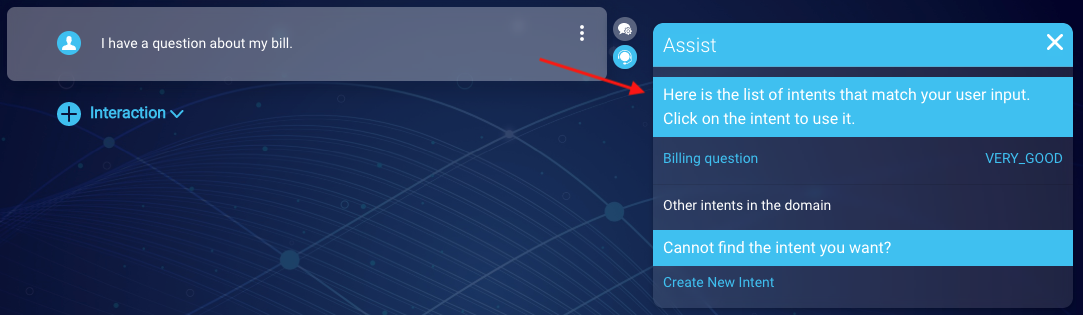
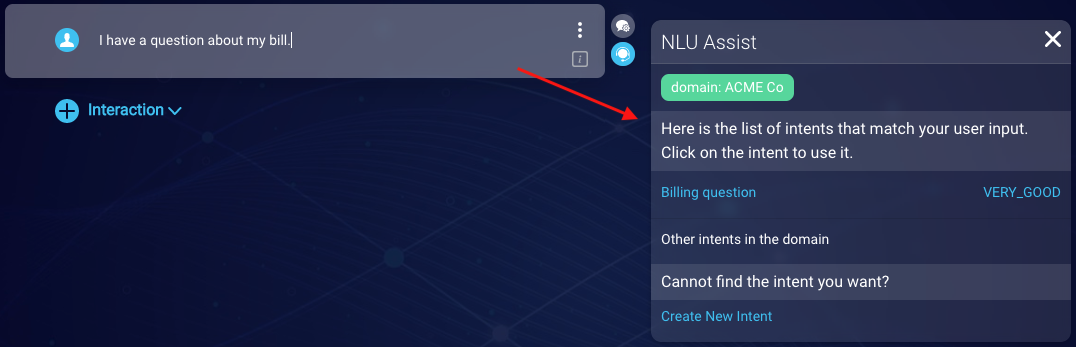
Updates due to Usability marathan & misc edits

diff --git a/pages/documents/ConversationalAI/ConversationBuilder/Assist.md b/pages/documents/ConversationalAI/ConversationBuilder/Assist.md
@@ -1,34 +1,35 @@
 ---
-pagename: Assist
+pagename: NLU Assist
 redirect_from:
     - conversation-builder-conversation-builder-assist.html
+    - conversation-builder-assist.html
 Keywords:
 sitesection: Documents
 categoryname: "Conversational AI"
 documentname: Conversation Builder
 subfoldername: Conversation Builder
-permalink: conversation-builder-assist.html
+permalink: conversation-builder-nlu-assist.html
 indicator: both
 ---
 
-The Assistant tool is a helper tool which "listens" to your dialog as you build it, interaction by interaction, and suggests intents, entities, patterns, and more which can be added to each interaction.
+NLU Assist is a helper tool that "listens" to your dialog as you build it, interaction by interaction, and suggests intents, entities, patterns, and more that can be added to each interaction.
 
 <img alt="test" class="fancyimage" style="width:800px" src="img/ConvoBuilder/assist_suggestion.png">
 
-### Adding a Domain
+### Adding a domain
 
-When you create your first interaction, the Assistant helper tool will automatically pop up on the right hand side of the Conversation Builder. You'll be prompted to add a domain from the list of domains you have set up (to learn more about setting up domains, please see [this link](conversation-builder-intent-builder-overview.html)). If you have not configured a domain yet, you will not be prompted to add one.
+When you create your first interaction, NLU Assist will automatically pop up on the right hand side of an interaction. You'll be prompted to add a domain from the list of domains you have set up (to learn more about setting up domains, please see [this link](conversation-builder-intent-builder-overview.html)). If you have not configured a domain yet, you will not be prompted to add one.
 
-Select one of your domains from the list and click on it. From then on, for this dialog, Assistant will recommend using intents and entities from this domain, identifying areas where they might be relevant using NLU (in essence, it recognizes keywords that you use in an interaction *and* an intent or entity, offering you to link between the two).
+Select one of your domains from the list and click on it. From then on, for this dialog, NLU Assist will recommend using intents and entities from this domain, using NLU to identify areas where they might be relevant. In essence, it recognizes keywords that you use in an interaction *and* an intent or entity, offering you to link between the two.
 
-### Assigning an Intent to An Interaction
+### Assigning an intent to an interaction
 
-When you start typing out a **user interaction**, the Assistant will check the message/question you are creating and run it against your domain's list of existing intents. Using the same NLU engine that will later be used by the automation in real time, it will attempt to suggest relevant intents which you might want to associate with the user's question.
+When you start typing out a *user interaction*, NLU Assist will check the message/question you are creating and run it against your domain's list of existing intents. Using the same NLU engine that will later be used by the bot in real time, it will attempt to suggest relevant intents that you might want to associate with the user's question.
 
-Once you choose an intent, the Assistant will set it for the user's message and the automation will trigger the dialog or the next interaction when the intent is found in a conversation. For example, if your first message is "Hello, I need to check my order status", the Assistant might find a "order_status" intent. Depending on the training questions you associate with the intent (see the link above for more information on how do to that), the automation will trigger not only for that specific sentence but also for something like "Hey! What's my order status?"
+Once you choose an intent, NLU Assist will set it for the user's message, and the bot will trigger the dialog or the next interaction when the intent is found in a conversation. For example, if your first message is "Hello, I need to check my order status", NLU Assist might find an "order_status" intent. Depending on the training questions you associate with the intent (see the link above for more information on how do to that), the bot will trigger not only for that specific sentence but also for something like "Hey! What's my order status?"
 
-### Assigning an Entity and Slots to An Interaction
+### Assigning an entity and slots to an interaction
 
-When you create a **automation interaction**, such as a multiple choice question, the Assistant will listen to the different answers you create for this interaction. It will attempt to find an [entity](conversation-builder-intent-builder-entities.html) which contains these different answers and suggest that you set it for this interaction. If no entity is found, it will prompt you to create one and populate it with the different answers you've configured.
+When you create an *bot interaction*, such as a multiple choice question, NLU Assist will listen to the different answers you create for this interaction. It will attempt to find an [entity](conversation-builder-intent-builder-entities.html) that contains these different answers and suggest that you set it for this interaction. If no entity is found, it will prompt you to create one and populate it with the different answers you've configured.
 
-Once you've chosen an entity, the Assistant will also prompt you to assign or create a [slot](conversation-builder-conversation-builder-variables-slots.html#slots) for this interaction. This will allow you to store the specific answer which the user will choose from out of the members of the assigned entity.
+Once you've chosen an entity, NLU Assist will also prompt you to assign or create a [slot](conversation-builder-conversation-builder-variables-slots.html#slots) for this interaction. This will allow you to store the specific answer that the user will choose from out of the members of the assigned entity.

diff --git a/pages/documents/ConversationalAI/ConversationBuilder/automations.md b/pages/documents/ConversationalAI/ConversationBuilder/automations.md
@@ -14,7 +14,7 @@ indicator: both
 ### Create a bot
 
 {: .important}
-LivePerson recommends that—-before you create a bot—-you set up the [domains](conversation-builder-intent-builder-overview.html), [intents](conversation-builder-intent-builder-overview.html), and [entities](conversation-builder-intent-builder-entities.html) that the bot will need. This makes creation of the bot much faster and easier because the [Assist tool](conversation-builder-assist.html) can use that information along the way to suggest suitable intents and entities to use.
+LivePerson recommends that —before you create a bot— you set up the [domains](conversation-builder-intent-builder-overview.html), [intents](conversation-builder-intent-builder-overview.html), and [entities](conversation-builder-intent-builder-entities.html) that the bot will need. This makes creation of the bot much faster and easier because the [NLU Assist tool](conversation-builder-nlu-assist.html) can use that information along the way to suggest suitable intents and entities to use.
 
 
 **To create a bot**
@@ -76,7 +76,7 @@ Bot settings include:
 
 - **Conversation Builder Platform Version**: Read-only. This identifies the platform version of the bot. Typically, you don’t need this information, but here’s where you can find it if asked for it (for example, in a support scenario).
 
-- **Entity**: You can use this option to associate _a domain_ with the bot. However, the Assist tool provides you with help in associating domains with dialogs, so typically you don’t need to specify a domain here.
+- **Entity**: You can use this option to associate _a domain_ with the bot. However, the [NLU Assist](conversation-builder-nlu-assist.html) tool provides you with help in associating domains with dialogs, so typically you don’t need to specify a domain here.
 
 - **Bot Account**: If you logged into Conversation Builder directly (i.e., _not_ via single sign-on from LiveEngage) and you have access to multiple organizations within your LiveEngage account, you can use this setting to change the organization under which this bot exists. If you logged into Conversation Builder via single sign-on from LiveEngage, the organization you were using in LiveEngage is active and can't be changed, and nothing appears in this list.
 

diff --git a/pages/documents/ConversationalAI/ConversationBuilder/variablesAndSlots.md b/pages/documents/ConversationalAI/ConversationBuilder/variablesAndSlots.md
@@ -43,7 +43,7 @@ Slots are a *special type* of variable. Most of the time, you will use [variable
 
 When combined with [entities](conversation-builder-intent-builder-entities.html), slots bring dynamic, fluid behavior to storing user input data.
 
-For example, if you add a question interaction "what type of shoes are you looking for?", the [Assist](conversation-builder-conversation-builder-assist.html#assigning-an-entity-and-slots-to-an-interaction) tool will suggest appropriate entities and slots for that interaction. As long as the user stays within the bounds of entities that you have created, slots will automatically adjust and update based upon user input throughout the conversation.
+For example, if you add a question interaction "what type of shoes are you looking for?", the [NLU Assist](conversation-builder-nlu-assist.html#assigning-an-entity-and-slots-to-an-interaction) tool will suggest appropriate entities and slots for that interaction. As long as the user stays within the bounds of entities that you have created, slots will automatically adjust and update based upon user input throughout the conversation.
 
 #### Adding a Slot
 
@@ -71,4 +71,4 @@ If your automation asked the user "which animal do you like?" and the user answe
 
 Variables are the default storage unit of Conversation Builder, while slots are a special type of variable. The only reason to favor Slots is if you need extra functionality that is linked to entities or if entities will be used in an API Integration catalog search, for example.
 
-When in doubt, it is best to use variables. The [Assist](conversation-builder-conversation-builder-assist.html) tool will help to display when slots are most useful.
+When in doubt, it is best to use variables. The [NLU Assist](conversation-builder-nlu-assist.html) tool will help to display when slots are most useful.

diff --git a/pages/documents/ConversationalAI/ConversationBuilder/Dialogs/dialogs_fallback.md b/pages/documents/ConversationalAI/ConversationBuilder/Dialogs/dialogs_fallback.md
@@ -15,6 +15,6 @@ By default, whenever a bot doesn't recognize the user's input in a conversation,
 
 ### Why use a Fallback dialog?
 
-Use the Fallback dialog type to _override_ the default behavior with a different fallback response and flow. For example, you might want to send, “I'm sorry. I didn't quite understand you,” or, “I'm not sure what '{$query}' means.” ({$query} plays back to the user what they just said. Once the Fallback dialog flow is completed, the user is returned to their previous dialog and interaction position.
+Use the Fallback dialog type to _override_ the default behavior with a different fallback response and flow. For example, you might want to send, “I'm sorry. I didn't quite understand you,” or, “I'm not sure what '{$userMessage}' means.” ({$userMessage} plays back to the user what they just said. Once the Fallback dialog flow is completed, the user is returned to their previous dialog and interaction position.
 
 Since the Fallback dialog is triggered after failing to match any other dialog starter, it’s also useful for funneling user utterances into a Knowledge Base (or similar integration) search. If an appropriate search result is found, it can be displayed; if no results are found, you might then display a "sorry" message or escalate the conversation to a human agent.

diff --git a/pages/documents/ConversationalAI/IntentBuilder/entities.md b/pages/documents/ConversationalAI/IntentBuilder/entities.md
@@ -22,7 +22,7 @@ Entities are usually one or two words as they represent groups of simple objects
 
 ### Built In entities
 
-The platform automatically detects the entities listed below. Using the [Assist](conversation-builder-conversation-builder-assist.html) tool, you can assign these default entities to User Interactions and have the automation populate a [Slot](conversation-builder-conversation-builder-variables-slots.html#slots) with the user's input to the question to which the entity was assigned.
+The platform automatically detects the entities listed below. Using the [NLU Assist](conversation-builder-nlu-assist.html) tool, you can assign these default entities to User Interactions and have the automation populate a [Slot](conversation-builder-conversation-builder-variables-slots.html#slots) with the user's input to the question to which the entity was assigned.
 
 * PERSON - Names of people, persons.
 

diff --git a/pages/documents/ConversationalAI/ConversationBuilder/common_use_cases.md b/pages/documents/ConversationalAI/ConversationBuilder/common_use_cases.md
@@ -15,9 +15,11 @@ Trying to accomplish a specific goal, but you don't know where to find the infor
 
 To include the consumer's last response in a message, use the following syntax:
 
-`{$query}`
+`{$userMessage}`
 
-For example, in a [Fallback dialog](conversation-builder-dialogs-fallback-dialogs.html), you might send the fallback response, "I'm not sure what '{$query}' means."
+(You can also use `{$query}` in the same way.)
+
+For example, in a [Fallback dialog](conversation-builder-dialogs-fallback-dialogs.html), you might send the fallback response, "I'm not sure what '{$userMessage}' means."
 
 It's common to use this special syntax in the response conditions of questions because often you want to store the consumer's response to a question in a variable. For more on this, see [here](conversation-builder-variables-slots.html).
 

diff --git a/pages/documents/ConversationalAI/ConversationBuilder/Interactions/interactionDetails.md b/pages/documents/ConversationalAI/ConversationBuilder/Interactions/interactionDetails.md
@@ -38,8 +38,7 @@ The Settings panel contains essential data about the selected interaction:
     {: .important}
     If you see messages out of order, add a 1000-2000 millisecond (1-2 second) delay. A 2-second delay is recommended to ensure a consistent message order.
 
-* **Enabled**: On/Off selector for enabling or disabling.
-* **Required**: Available for Question interactions only. On/Off selector for required or not required.
+* **Interaction Enabled**: Set this On/Off slider to Off to disable the interaction, i.e., to exclude it from being executed as a part of the dialog flow. The default value is On (Enabled).
 
 ### Next Actions
 

diff --git a/pages/documents/ConversationalAI/ConversationBuilder/GettingStarted/2-Intents.md b/pages/documents/ConversationalAI/ConversationBuilder/GettingStarted/2-Intents.md
@@ -89,7 +89,7 @@ With the "Billing question" intent configured, let’s return to Conversation Bu
 5. Create a new regular dialog named "Billing".
 6. Add a User Says interaction.
     
-    The [Assist tool](conversation-builder-conversation-builder-assist.html) that automatically appears helps you to link the domain and intent to the User Says interaction.
+    The [NLU Assist tool](conversation-builder-nlu-assist.html) that automatically appears helps you to link the domain and intent to the User Says interaction.
     
     <img class="fancyimage" style="width:750px" src="img/ConvoBuilder/helloworld/selectdomain.png">
 

diff --git a/pages/documents/ConversationalAI/ConversationBuilder/ScriptingFunctions/functionsList.md b/pages/documents/ConversationalAI/ConversationBuilder/ScriptingFunctions/functionsList.md
@@ -25,7 +25,7 @@ For an introduction to scripting functions, see the [Introduction](conversation-
 * getEmail
 * getEnvVariable
 * getLPCustomerInfo
-* getLPEngagementAttribute (current skill, previous skill)
+* getLPEngagementAttribute (current skill, previous skill, etc.)
 * getLPUserPersonalInfo
 * getNamedEntities
 * getNlpResponse
@@ -44,6 +44,7 @@ For an introduction to scripting functions, see the [Introduction](conversation-
 * sendMessage
 * sendMessages
 * sendMessageWithQuickReplies
+* setBotVariable
 * setEmail
 * setMessageDelay
 * setTriggerNextMessage
